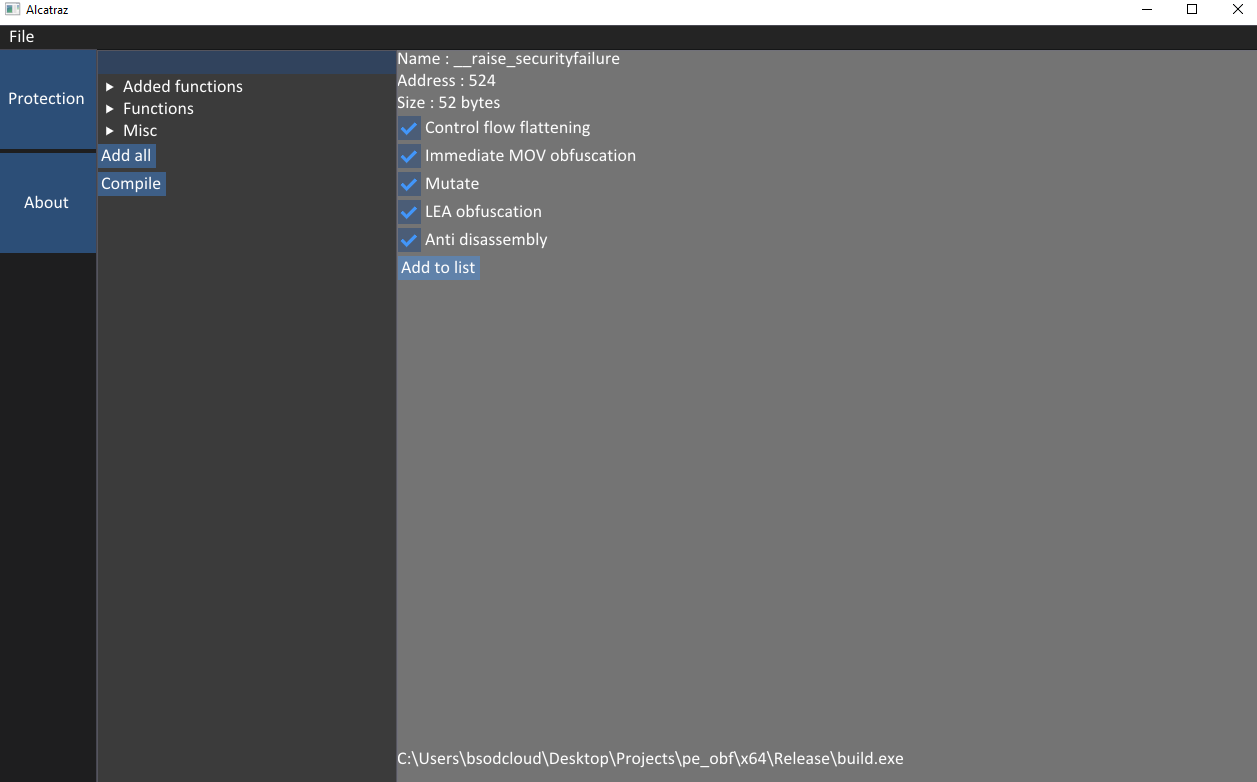
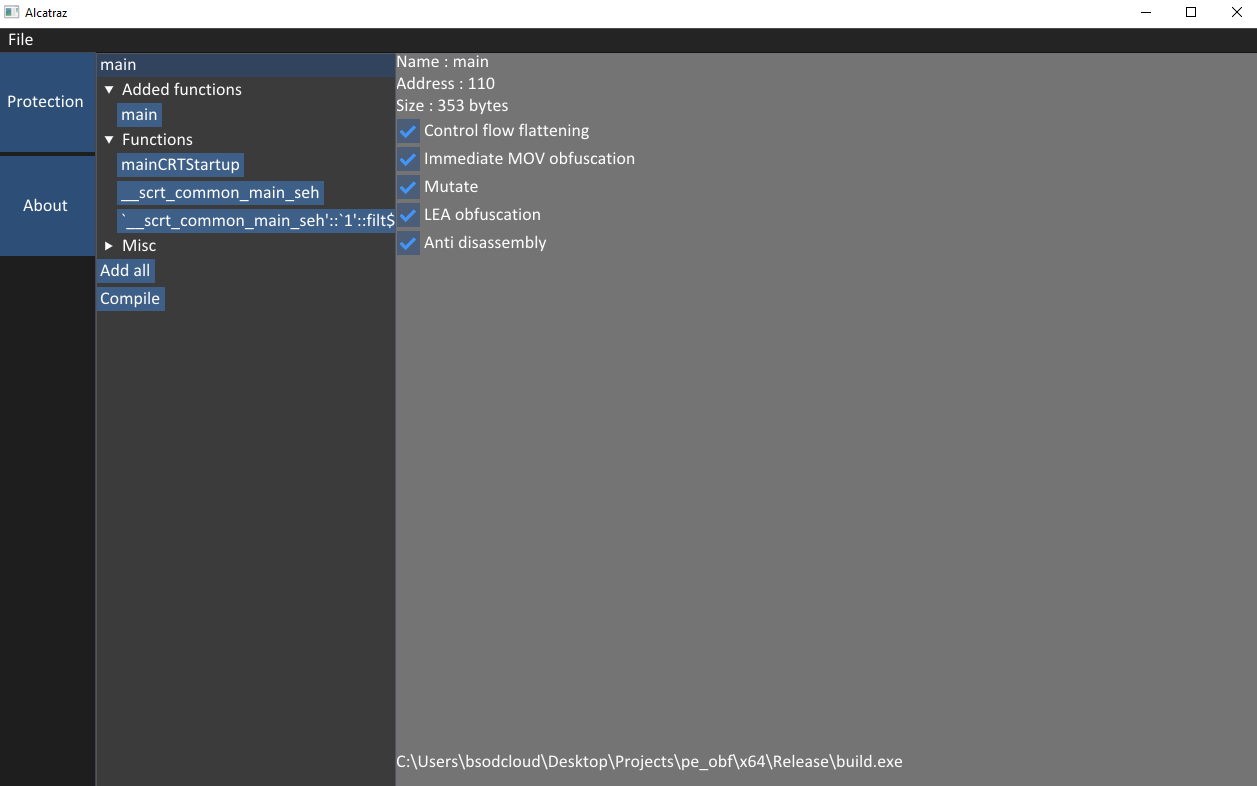
Gui addition

Changed region(s): [[0.0, 0.0, 1.0, 0.399], [0.3103, 0.9514, 0.7136, 0.9821]]

diff --git a/README.md b/README.md
@@ -16,7 +16,11 @@ Alcatraz is a x64 binary obfuscator that is able to obfuscate various different 
     + [Import obfuscation](#import-obfuscation)
 	+ [Final result](#final-result)
 
-
+# Usage
+![imgbefore](images/gui.PNG)
+1.) Load a binary by clicking `file` in the top left corner.  
+2.) Add functions by expanding the `Functions` tree. (You can search by putting in the name in the searchbar at the top)
+3.) Hit compile
 # Features
 In the following showcase all features (besides the one being showcased) are disabled.
 ### Obfuscation of immediate moves
